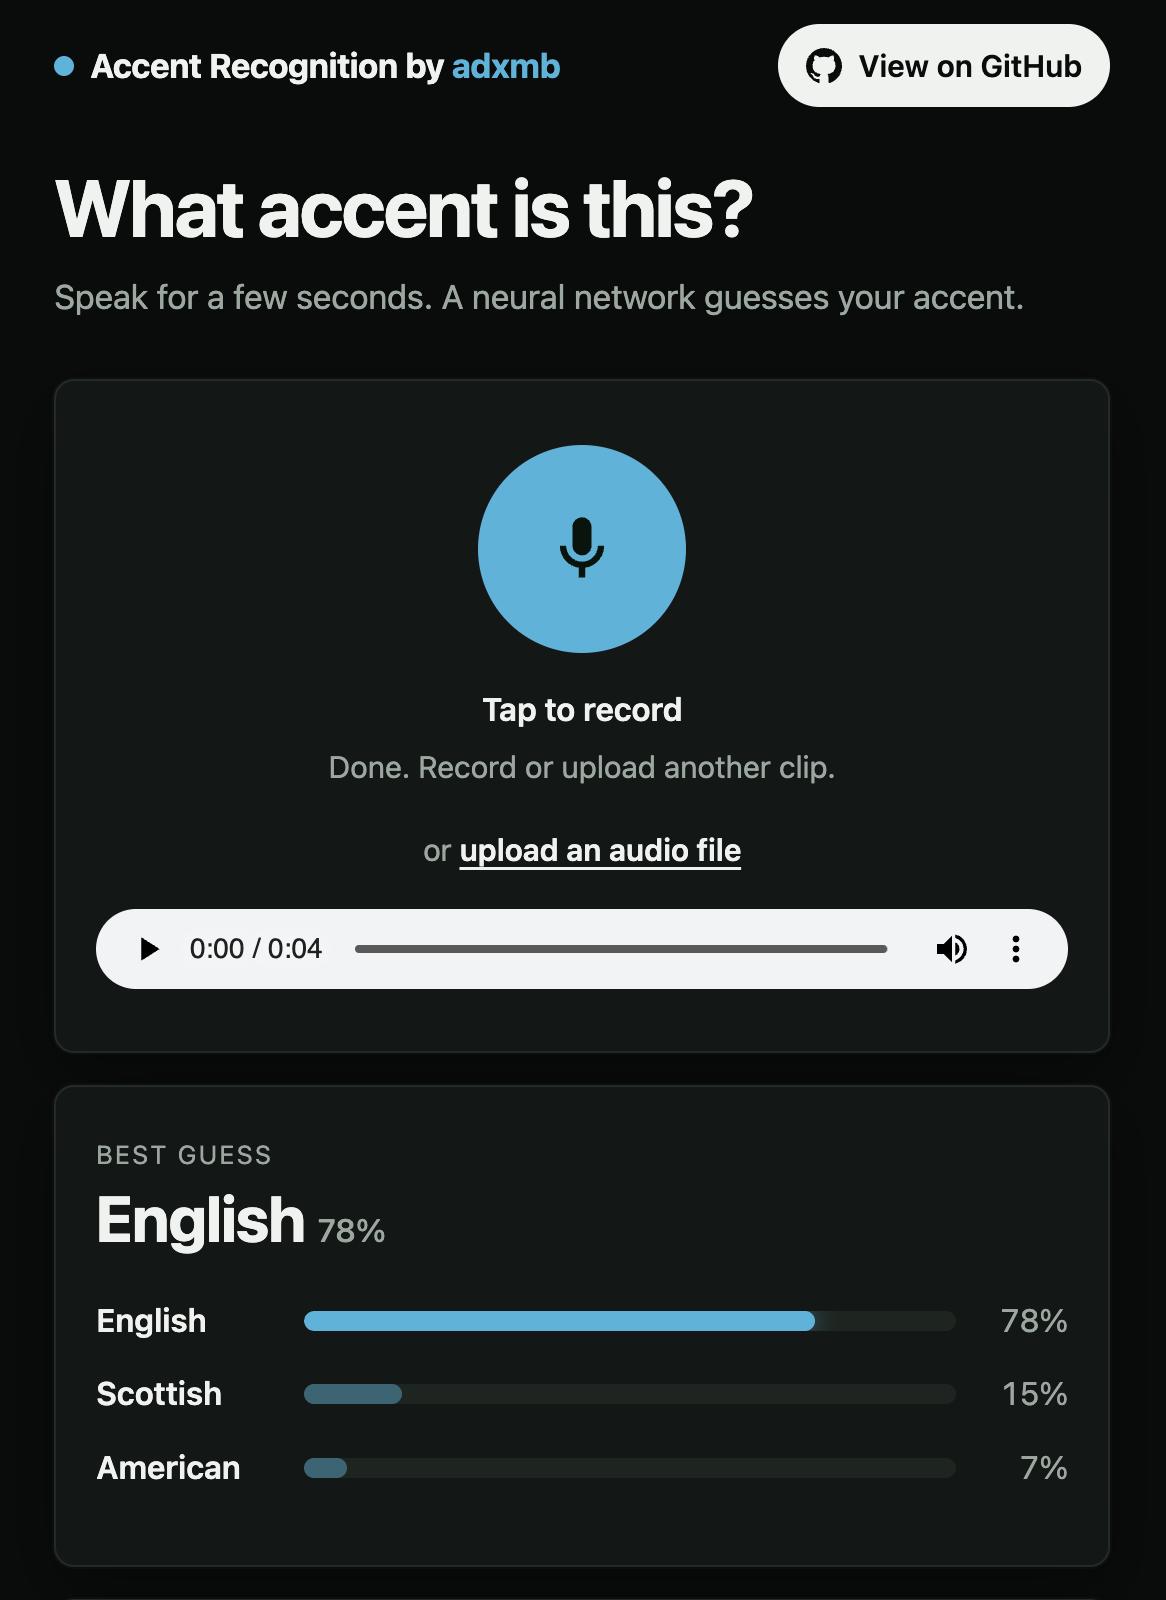
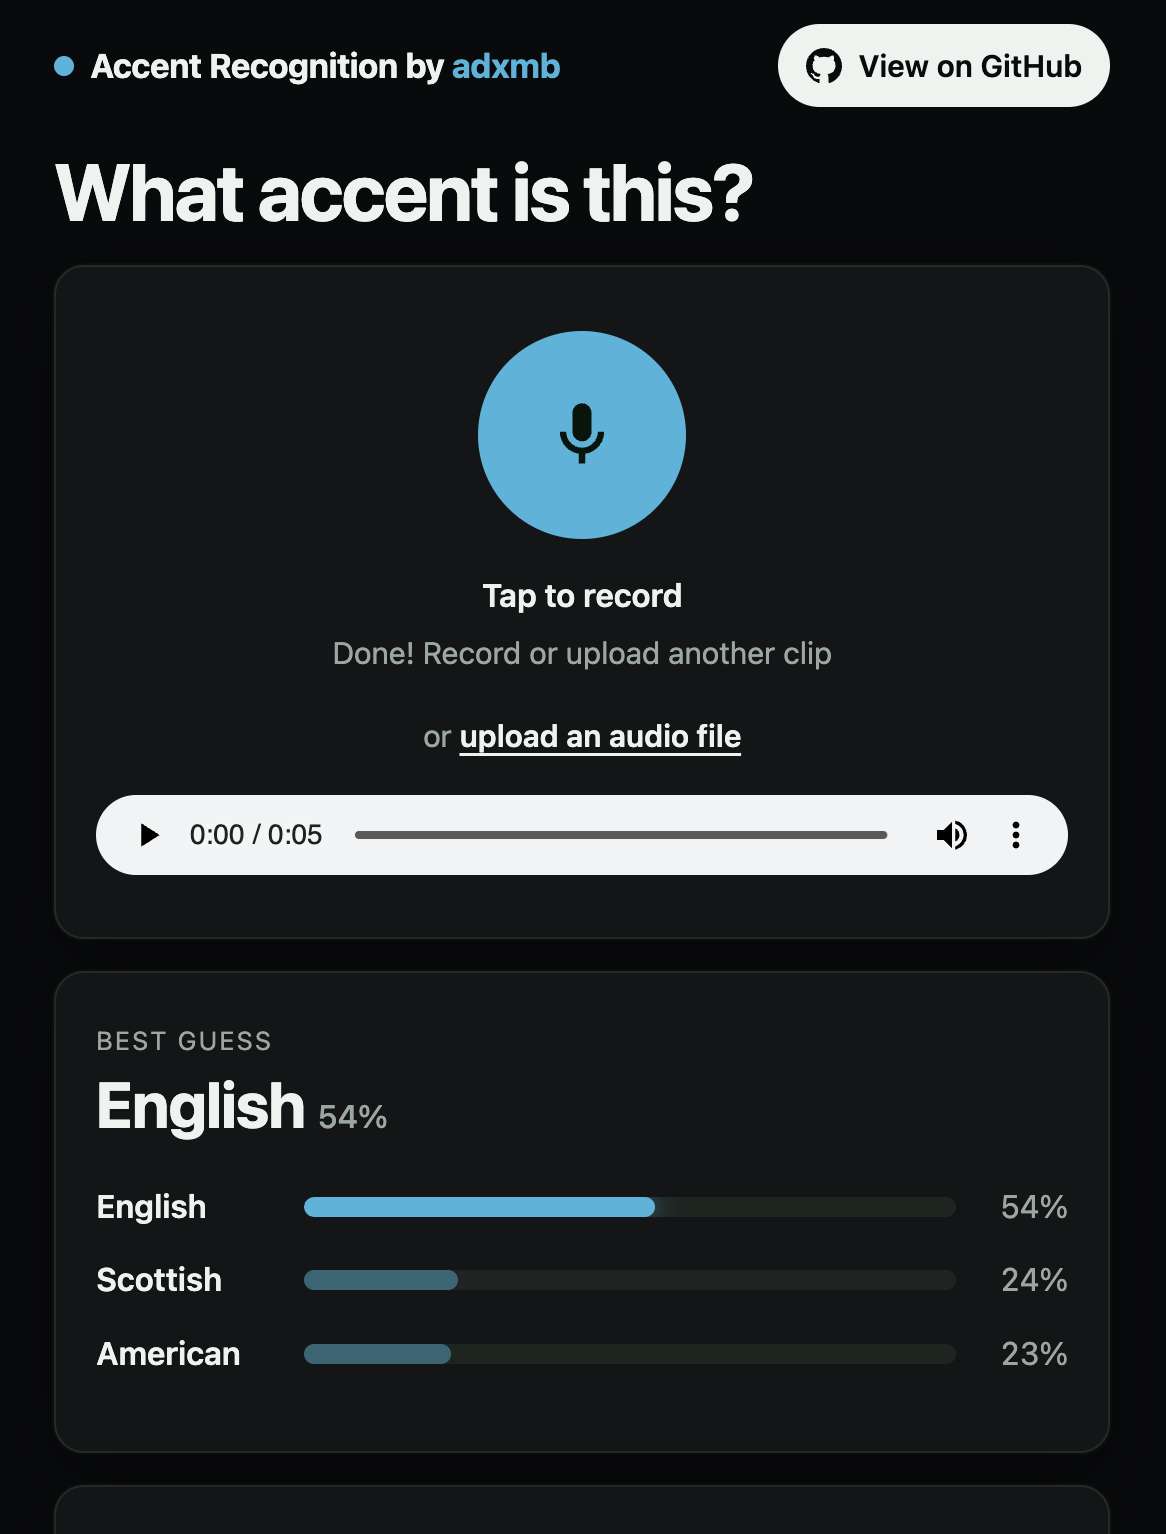
Modifying user interface

diff --git a/src/accent_recognition/static/index.html b/src/accent_recognition/static/index.html
@@ -6,13 +6,13 @@
         <title>Accent Recognition by adxmb</title>
         <meta
             name="description"
-            content="Classify an English accent from your voice. A neural network written from scratch in NumPy."
+            content="Classify an English accent from your voice. A neural network written from scratch in NumPy"
         />
         <style>
             :root {
                 --bg: #f6f7f5;
                 --panel: #ffffff;
-                --fg: #101412;
+                --fg: #101214;
                 --muted: #55605b;
                 --line: #dde2de;
                 --accent: #3185c9;
@@ -30,8 +30,8 @@
             }
             @media (prefers-color-scheme: dark) {
                 :root {
-                    --bg: #090c0b;
-                    --panel: #121715;
+                    --bg: #090a0c;
+                    --panel: #121517;
                     --fg: #eef2ef;
                     --muted: #9aa7a0;
                     --line: #222b27;
@@ -79,7 +79,7 @@
                 align-items: center;
                 justify-content: space-between;
                 gap: 12px;
-                padding: 4px 0 28px;
+                padding: 4px 0 20px;
             }
             .brand {
                 font-weight: 700;
@@ -130,7 +130,7 @@
                 font-size: clamp(1.9rem, 6vw, 2.5rem);
                 line-height: 1.1;
                 letter-spacing: -0.03em;
-                margin: 0 0 10px;
+                margin: 0 0 15px;
             }
             .lead {
                 color: var(--muted);
@@ -141,7 +141,7 @@
             .panel {
                 background: var(--panel);
                 border: 1px solid var(--line);
-                border-radius: 10px;
+                border-radius: 15px;
                 box-shadow: var(--shadow);
             }
             .stage {
@@ -403,9 +403,6 @@
             </header>
 
             <h1>What accent is this?</h1>
-            <p class="lead">
-                Speak for a few seconds. A neural network guesses your accent.
-            </p>
 
             <section class="panel stage" aria-label="Input">
                 <button
@@ -429,7 +426,7 @@
                 </button>
                 <p class="hint" id="hint">Tap to record</p>
                 <div id="status" role="status" aria-live="polite">
-                    Record 3 to 15 seconds.
+                    Record 3 to 15 seconds
                 </div>
                 <p class="or">
                     or
@@ -461,20 +458,20 @@
                 <h2>About this model</h2>
                 <ul>
                     <li>
-                        <b>Accents:</b>
-                        <span id="classes">American, English, Scottish</span>.
+                        <i>Accents:</i>
+                        <span id="classes">American, English, Scottish</span>
                     </li>
                     <li>
-                        <b>Training data:</b> 74 speakers from the VCTK corpus.
+                        <i>Training data:</i> 74 speakers from the VCTK corpus
                     </li>
                     <li>
-                        <b>Accuracy on new speakers:</b> 54%. Random guess: 33%.
+                        <i>Accuracy on new speakers:</i> 54%. Random guess: 33%
                     </li>
                     <li>
-                        <b>Use:</b> this is a demo. It is not a reliable tool.
+                        <i>Use:</i> this is a demo. It is not a reliable tool
                     </li>
                     <li>
-                        <b>Privacy:</b> the server does not store your audio.
+                        <i>Privacy:</i> the server does not store your audio
                     </li>
                 </ul>
                 <div class="links">
@@ -569,7 +566,7 @@
                     const samples = await toMono16k(await blob.arrayBuffer());
                     if (samples.length < MIN_SECONDS * TARGET_RATE) {
                         throw new Error(
-                            "The clip is too short. Use at least 1 second of speech.",
+                            "The clip is too short. Must be at least 1 second",
                         );
                     }
                     const wav = encodeWav(samples, TARGET_RATE);
@@ -581,7 +578,7 @@
                     wake = setTimeout(
                         () =>
                             setStatus(
-                                "The server is starting. This can take up to a minute.",
+                                "The server is starting. This can take up to a minute",
                             ),
                         WAKE_MS,
                     );
@@ -590,16 +587,16 @@
                         body: form,
                     });
                     if (!resp.ok) {
-                        let detail = "The server could not process this audio.";
+                        let detail = "The server could not process this audio";
                         try {
                             detail = (await resp.json()).detail || detail;
                         } catch (_) {}
                         throw new Error(detail);
                     }
                     showResult(await resp.json());
-                    setStatus("Done. Record or upload another clip.");
+                    setStatus("Done! Record or upload another clip");
                 } catch (err) {
-                    setStatus(err.message || "Something went wrong.", true);
+                    setStatus(err.message || "Something went wrong", true);
                 } finally {
                     clearTimeout(wake);
                     $("rec").disabled = false;
@@ -660,7 +657,7 @@
             async function startRecording() {
                 if (!navigator.mediaDevices || !window.MediaRecorder) {
                     setStatus(
-                        "This browser cannot record. Upload an audio file instead.",
+                        "This browser cannot record. Upload an audio file instead",
                         true,
                     );
                     return;
@@ -671,7 +668,7 @@
                     });
                 } catch (_) {
                     setStatus(
-                        "The microphone is blocked. Allow access, or upload a file.",
+                        "The microphone is blocked. Allow access, or upload a file",
                         true,
                     );
                     return;
